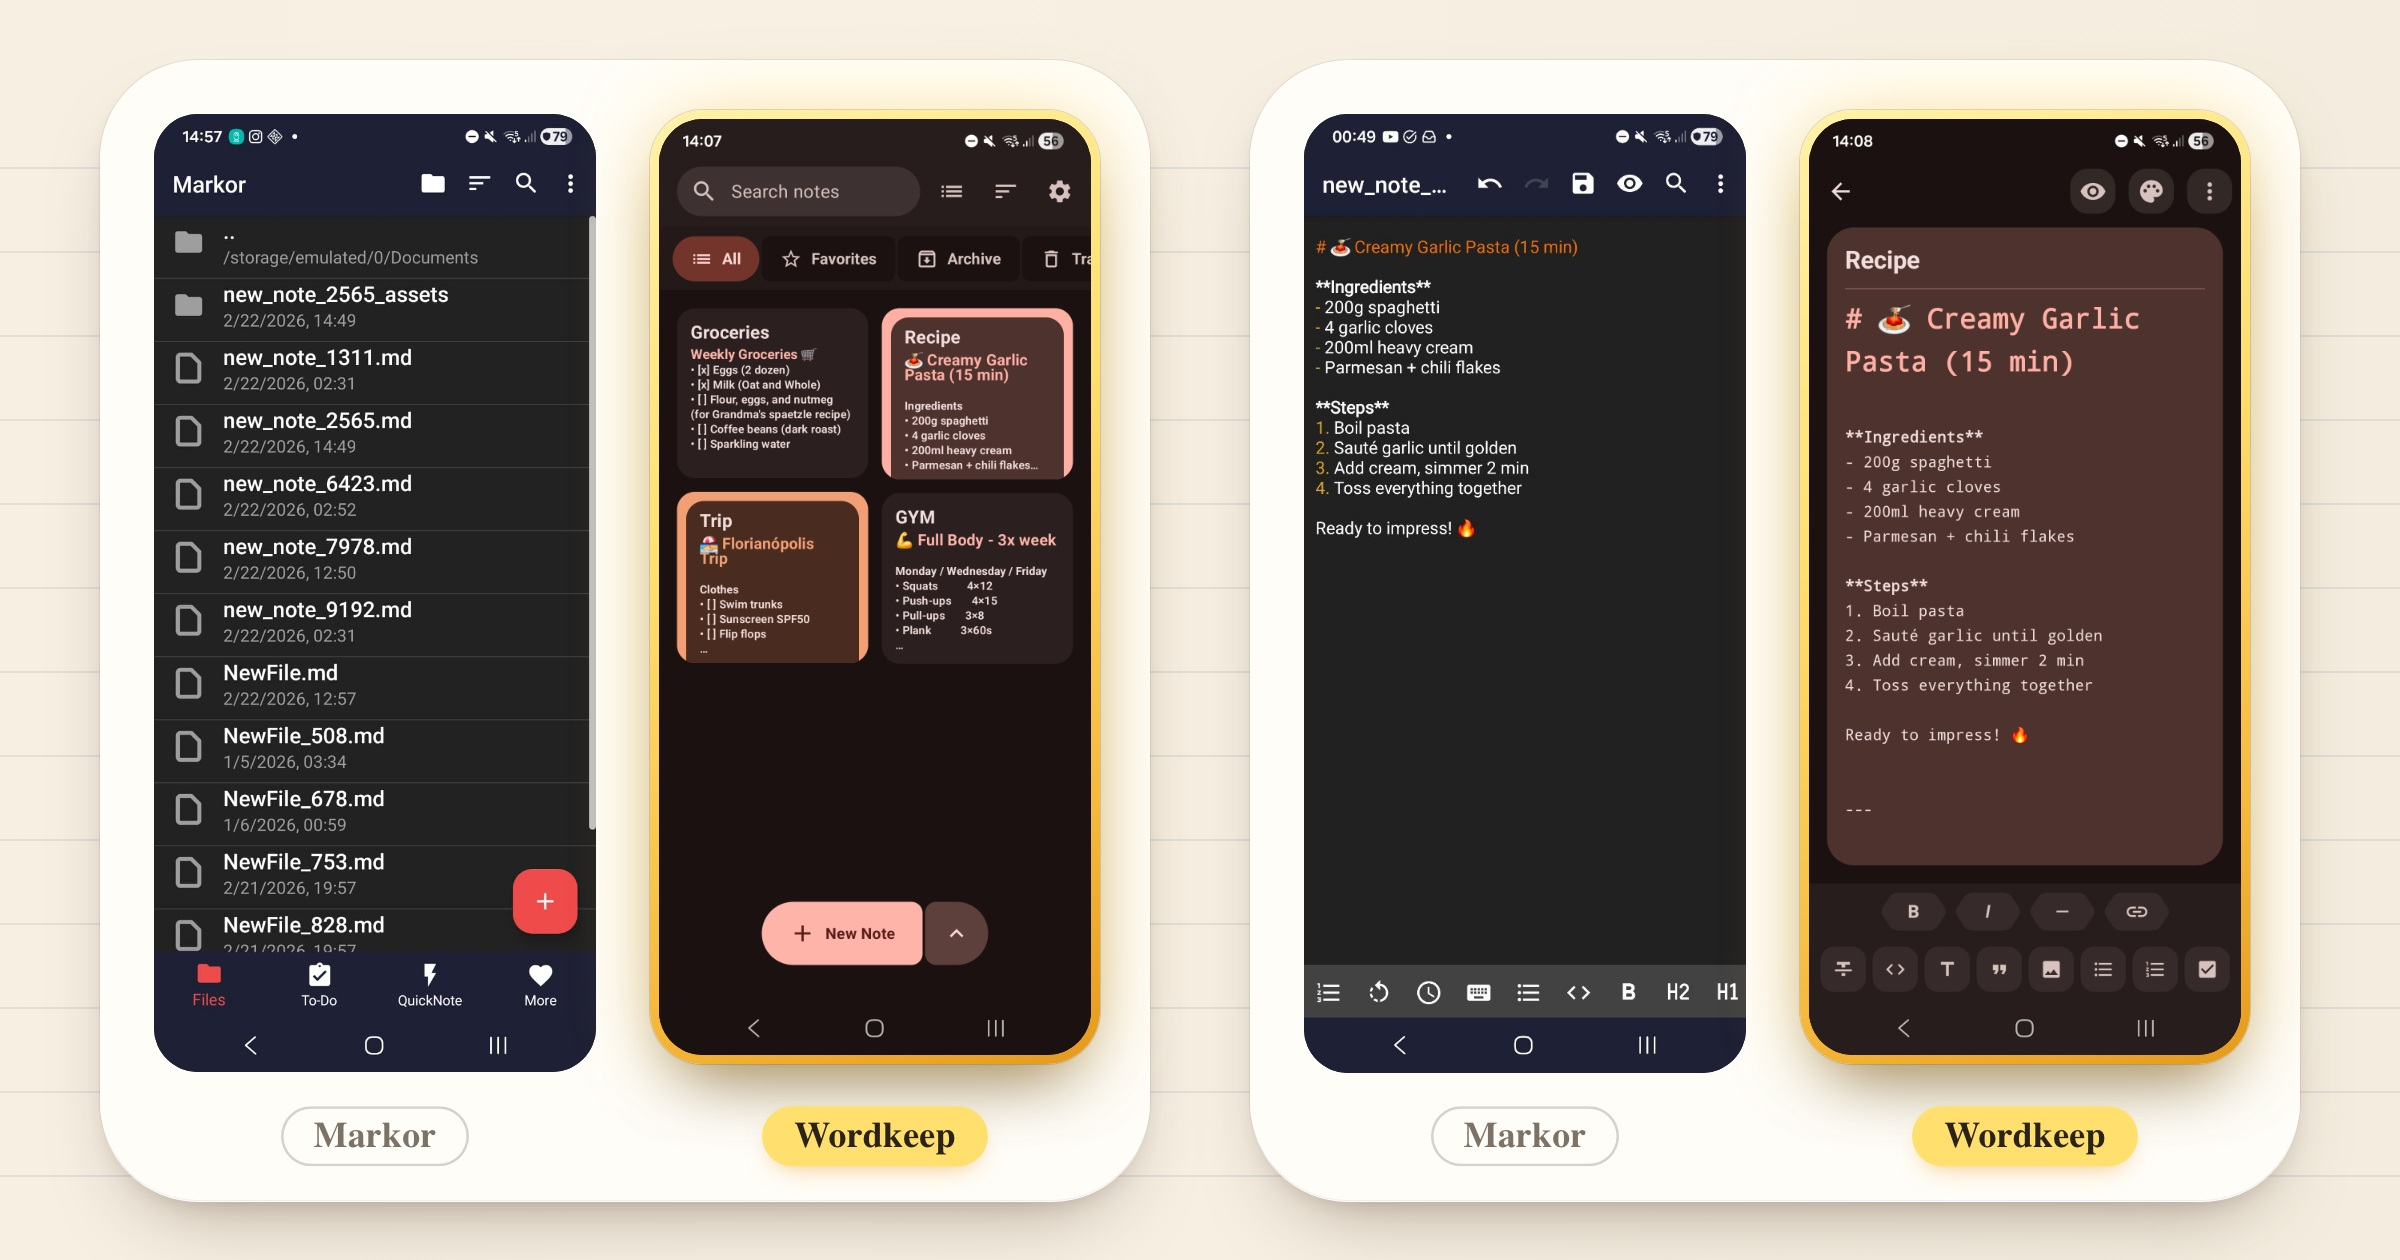
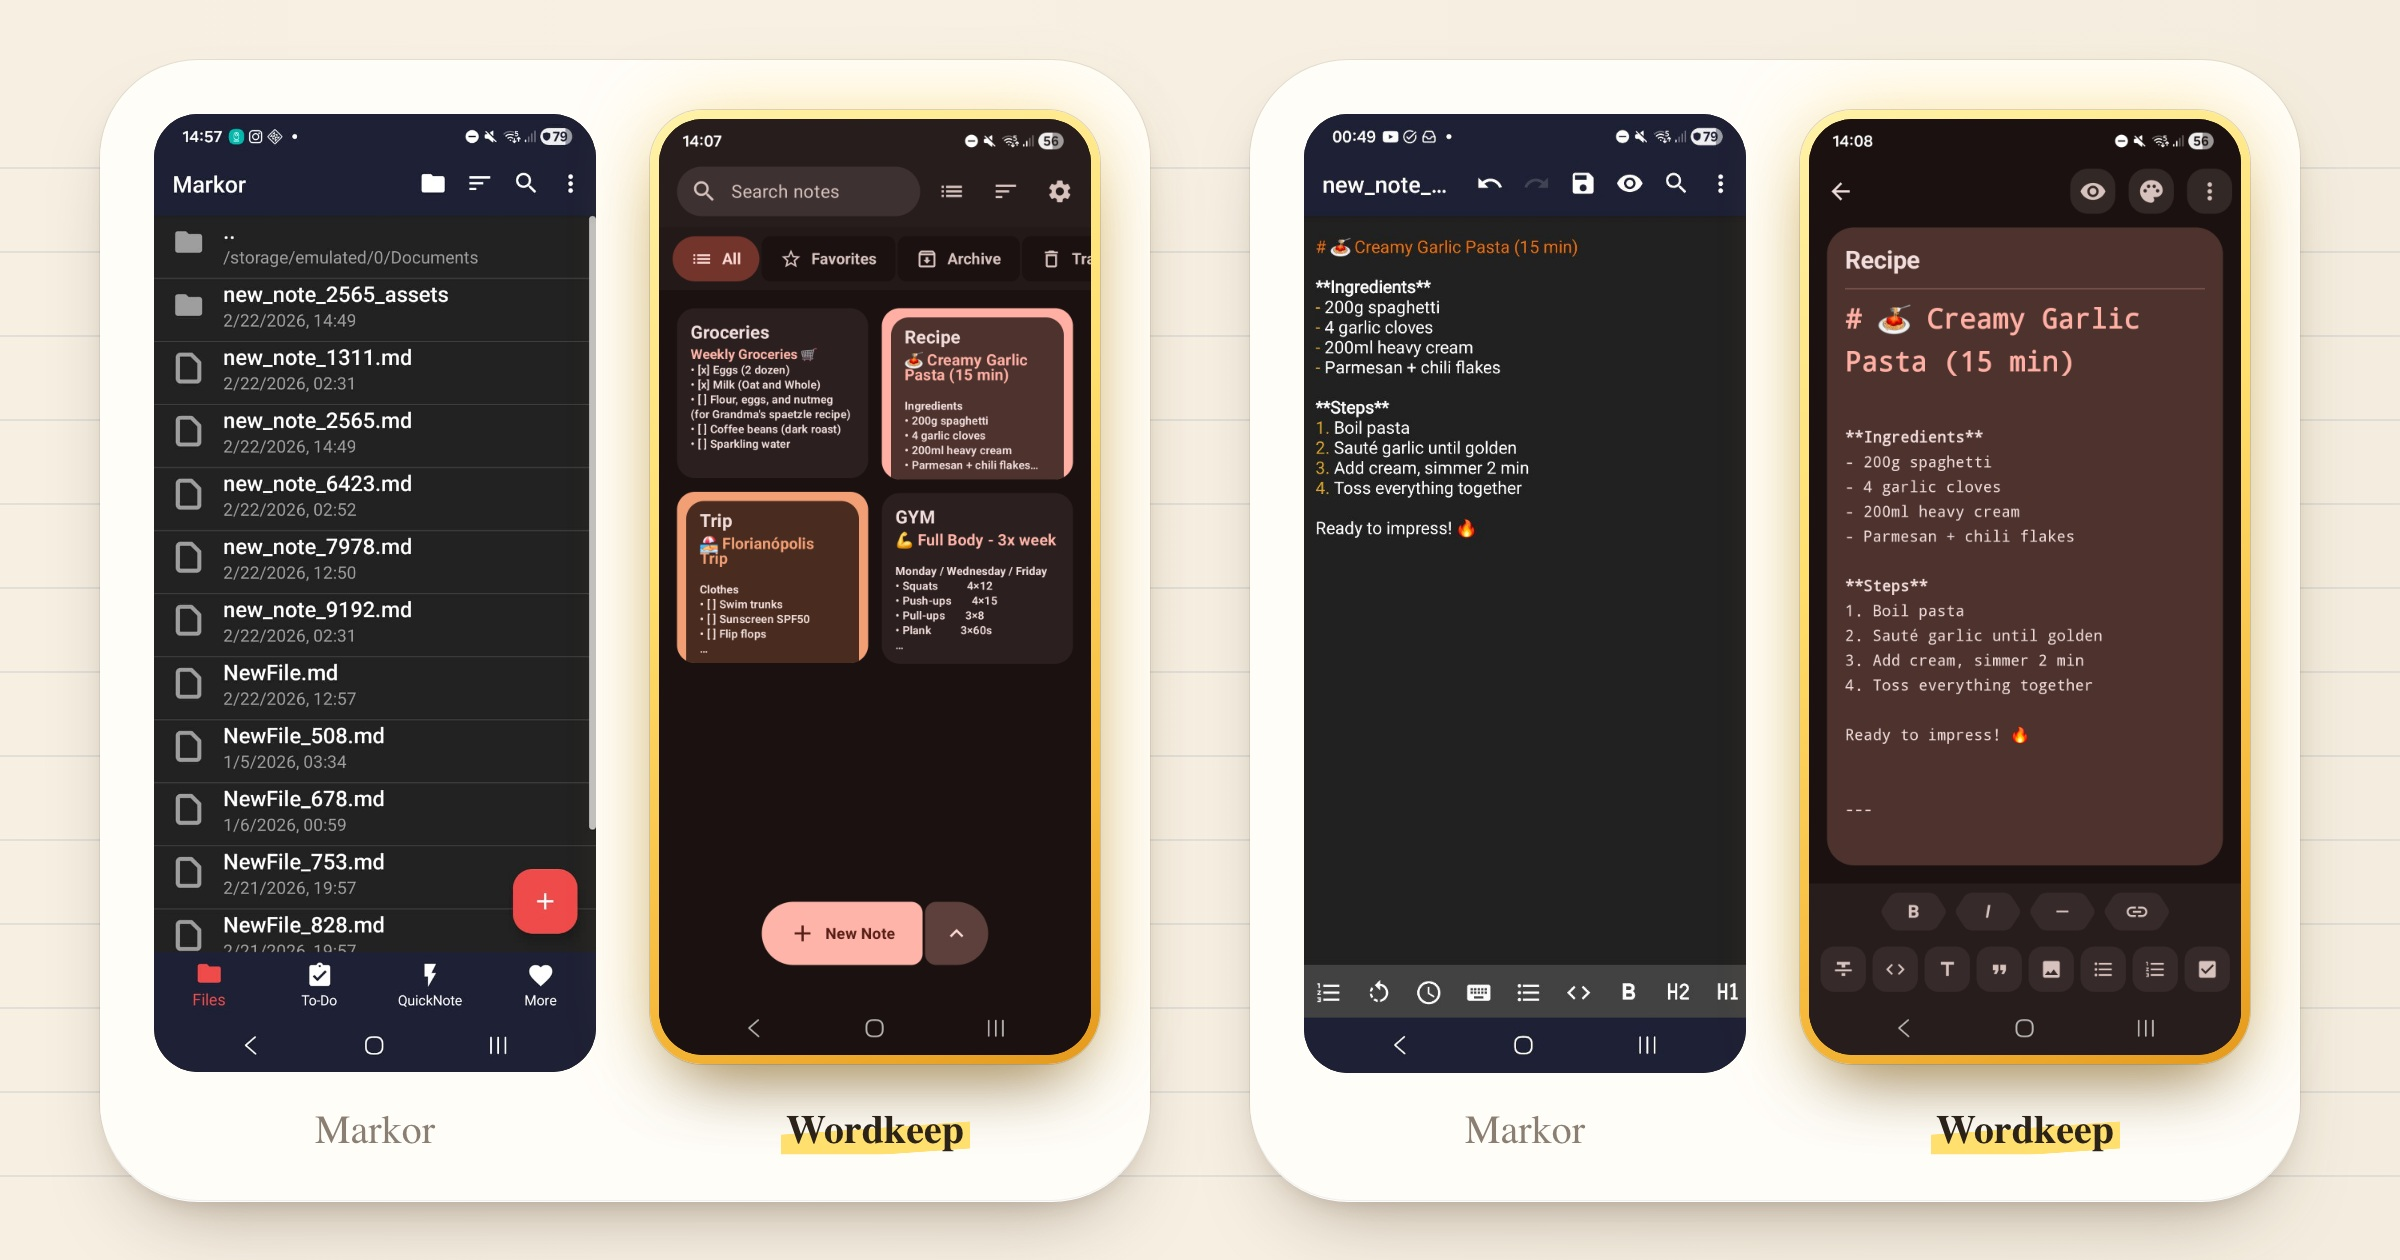
Name the comparison screens in the headline style instead of pills

diff --git a/store-listing/theme.css b/store-listing/theme.css
@@ -63,7 +63,7 @@ header p{margin:28px 0 0;font-size:42px;line-height:1.28;font-weight:400;opacity
 .readme .hero .center{left:890px;top:150px;width:620px;z-index:3}
 .readme .hero .right{left:1610px;top:330px;width:540px}
 /* Before and after: the same notes on one sheet of paper per pair. Markor keeps a thin pencil ring;
-   Wordkeep steps forward in a highlighter-yellow frame with a filled name pill. */
+   Wordkeep steps forward in a highlighter-yellow frame with its name in the store headlines' highlighter. */
 .readme .compare .device{width:450px;top:110px}
 .readme .compare .device .screen{border-radius:44px;overflow:hidden}
 .readme .compare .device.before{--bezel:4px;--radius:48px;background:#2B221940;box-shadow:0 26px 50px -30px #4a3420aa}
@@ -76,6 +76,6 @@ header p{margin:28px 0 0;font-size:42px;line-height:1.28;font-weight:400;opacity
 .readme .compare .device.before::before{content:'';position:absolute;z-index:-1;left:-50px;top:-50px;width:1050px;height:1140px;border-radius:98px;
   background:#fffdf8;box-shadow:0 0 0 1px #2B221914,0 2px 0 #ffffff,0 40px 80px -40px #4a342080,0 10px 24px -14px #4a342040}
 .readme .compare .device-label{transform:translateY(calc(var(--h) + 30px));display:flex;justify-content:center}
-.readme .compare .device-label span{padding:12px 32px;border-radius:999px;font:600 36px/1 Serif,serif;letter-spacing:.005em}
-.device-label.before span{color:#7d7266;box-shadow:inset 0 0 0 2.5px #2B221933;font-weight:500}
-.device-label.after span{color:var(--ink);background:#ffdf6e;box-shadow:0 10px 26px -12px #e59a1caa}
+.device-label.before span{font:500 40px/1.2 Serif,serif;color:#8a7f72}
+.device-label.after span{font:600 40px/1.2 Serif,serif;color:var(--ink);padding:0 .14em;
+  background:linear-gradient(176deg,transparent 46%,var(--hl) 47%,var(--hl) 90%,transparent 91%)}
